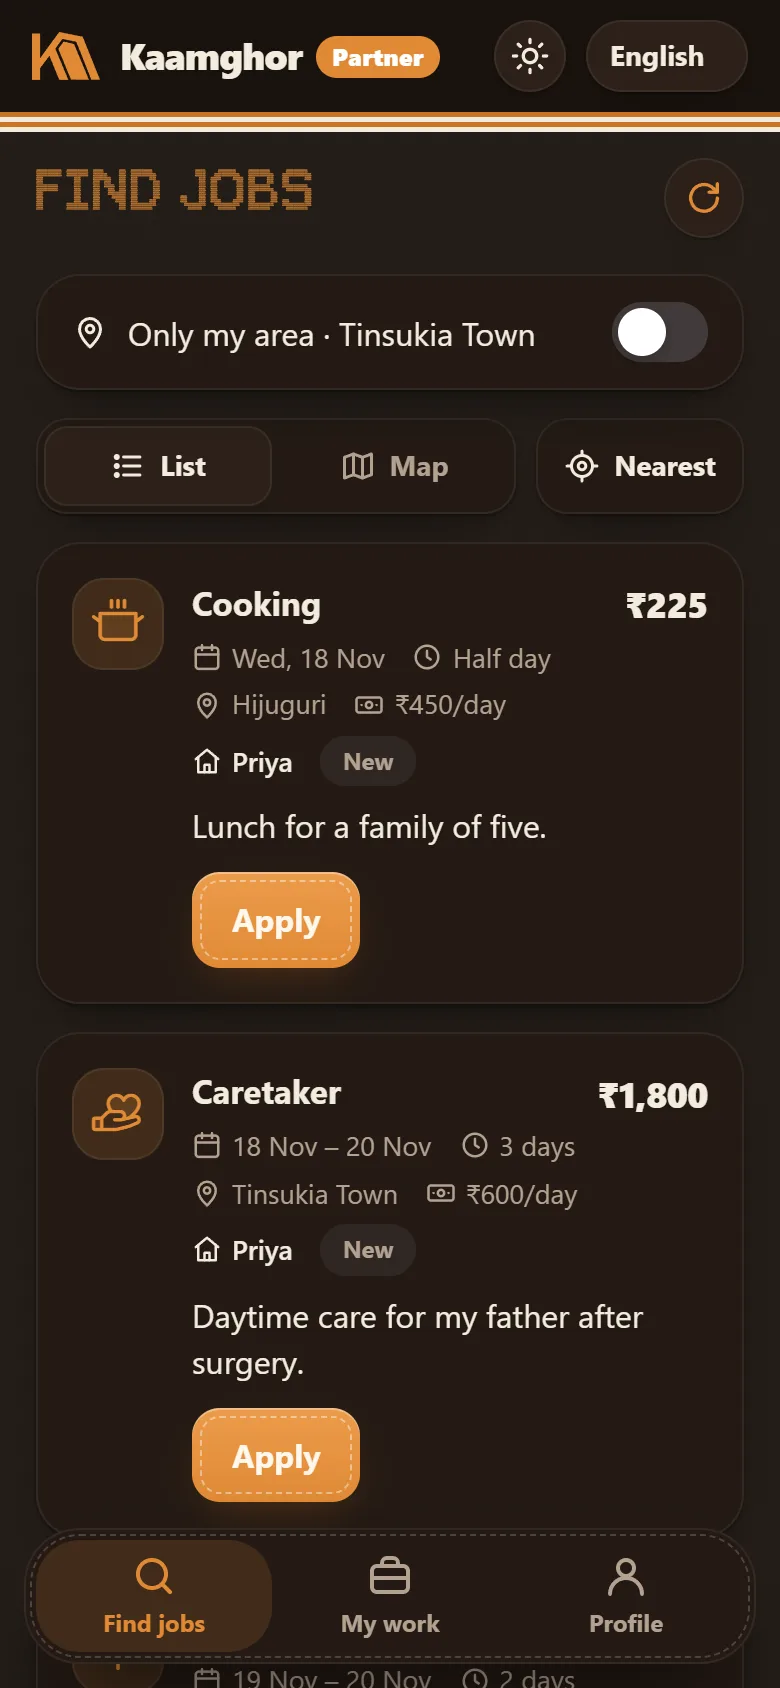
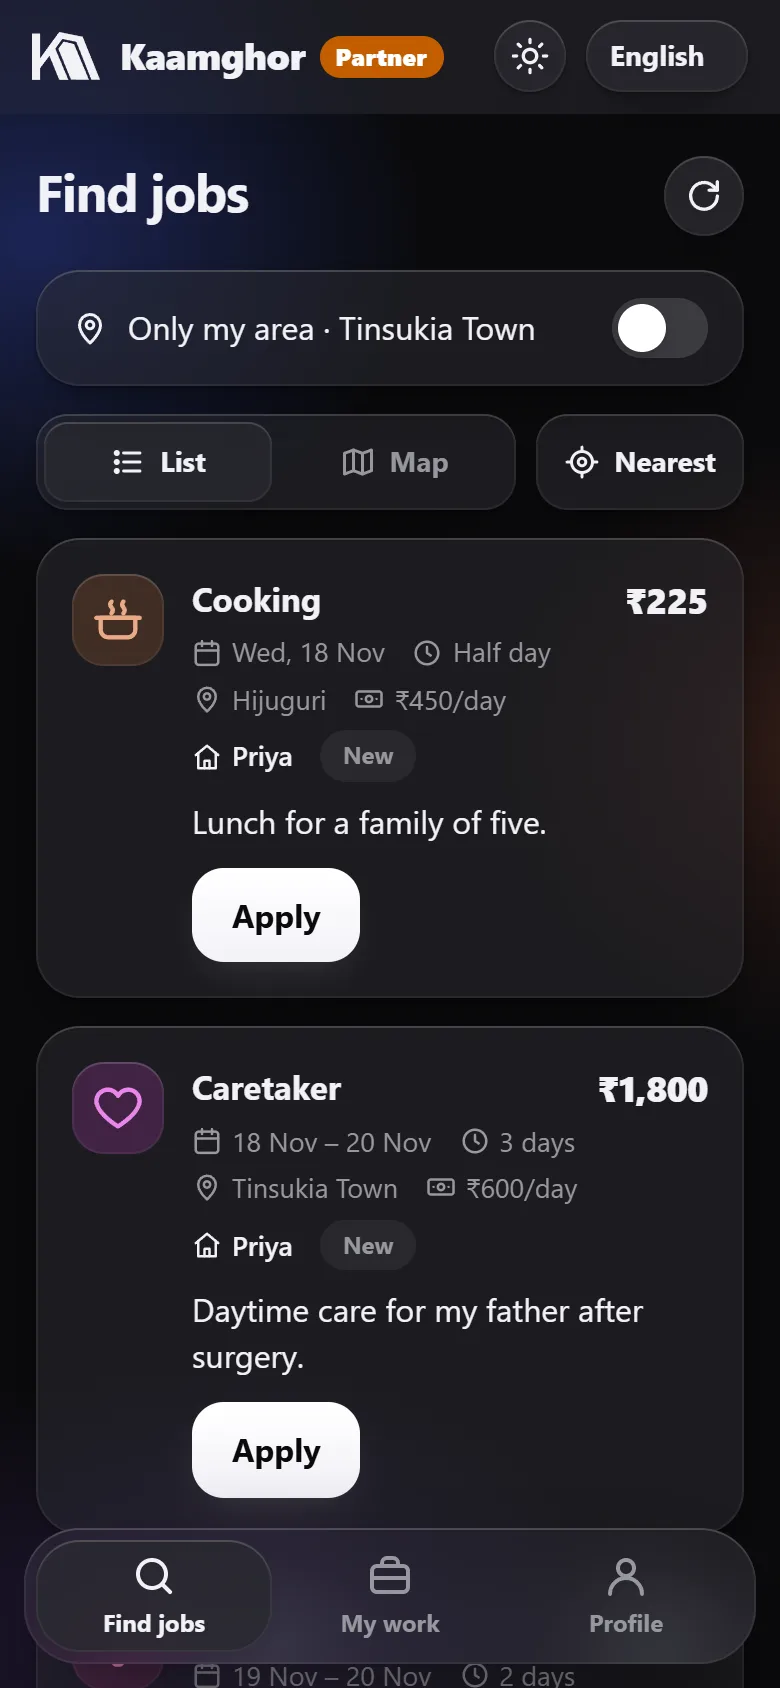
Revert "App: the gamosa look inside both apps"
This reverts commit 1327c54c8a9717330d1f883fd85fa1c9e2ec95e6.

diff --git a/web/index.html b/web/index.html
@@ -5,15 +5,10 @@
 <meta name="viewport" content="width=device-width, initial-scale=1, viewport-fit=cover">
 <title>Kaamghor</title>
 <meta name="description" content="Trusted daily-wage help for homes in Tinsukia, Assam.">
-<meta name="theme-color" content="#f8f2e6" id="themeColor">
+<meta name="theme-color" content="#f2f2f6" id="themeColor">
 <link rel="manifest" href="manifest.webmanifest">
 <link rel="icon" href="icon.svg" type="image/svg+xml">
 <link rel="apple-touch-icon" href="icon-192.png">
-<link rel="preconnect" href="https://fonts.googleapis.com">
-<link rel="preconnect" href="https://fonts.gstatic.com" crossorigin>
-<link href="https://fonts.googleapis.com/css2?family=Tiro+Bangla&display=swap" rel="stylesheet">
-<!-- Service icons: Phosphor (MIT), duotone. The service worker keeps a copy for offline use. -->
-<link rel="stylesheet" href="https://unpkg.com/@phosphor-icons/web@2.1.1/src/duotone/style.css">
 <style>
 /* ---------- Tokens. Neutral graphite UI; glass sits over soft blue, peach and lavender light. ---------- */
 :root {
@@ -490,92 +485,6 @@ html.lite dialog::backdrop { -webkit-backdrop-filter: none; backdrop-filter: non
 @media (prefers-reduced-motion: reduce) {
   *, *::before, *::after { animation-duration: .01ms !important; animation-iteration-count: 1 !important; transition-duration: .01ms !important; }
 }
-
-/* ===================== Gamosa =====================
-   The app wears the same cloth as the landing page: unbleached cotton, gamosa-red thread for
-   homes (gold for Partner), dark ink, a gamosa trim under the header and stitched edges.
-   These come last so they set the look over the rules above. */
-@font-face { font-family: Bowa; src: url(assets/fonts/bowa.woff2) format('woff2'); font-display: swap; }
-:root {
-  --bg: #f8f2e6; --solid: #fffaf1; --text: #2b1a12; --muted: #6f5a4a; --line: rgba(43,26,18,.12); --line-2: rgba(43,26,18,.22);
-  --brand: #b3172e; --brand-2: #c42038; --brand-ink: #fff8ee; --brand-soft: rgba(179,23,46,.09); --brand-glow: rgba(143,16,36,.35);
-  --amber: #a65a16; --accent: #a65a16; --accent-soft: rgba(200,115,38,.14);
-  --glass: rgba(255,250,241,.86); --glass-strong: #fffaf1; --glass-input: #fffdf8;
-  --hi: inset 0 0 0 1px rgba(43,26,18,.08);
-  --shadow: 0 1px 2px rgba(43,26,18,.06), 0 10px 24px -14px rgba(43,26,18,.32);
-  --shadow-lg: 0 20px 44px -16px rgba(43,26,18,.42);
-  --cloth-opacity: 1;
-  --woven: Bowa, "Tiro Bangla", system-ui, sans-serif;
-}
-:root[data-theme="dark"] {
-  --bg: #17110d; --solid: #241a14; --text: #f3ecdf; --muted: #b4a291; --line: rgba(243,236,223,.1); --line-2: rgba(243,236,223,.2);
-  --brand: #d8394f; --brand-2: #e2526a; --brand-ink: #fff8ee; --brand-soft: rgba(224,71,93,.15); --brand-glow: rgba(0,0,0,.55);
-  --amber: #e08a35; --accent: #e08a35; --accent-soft: rgba(224,138,53,.16);
-  --glass: rgba(36,26,20,.9); --glass-strong: #2c2019; --glass-input: rgba(243,236,223,.05);
-  --hi: inset 0 0 0 1px rgba(243,236,223,.07);
-  --shadow: 0 1px 2px rgba(0,0,0,.4), 0 12px 28px -14px rgba(0,0,0,.7);
-  --shadow-lg: 0 24px 50px -16px rgba(0,0,0,.8);
-  --cloth-opacity: .06;
-}
-@media (prefers-color-scheme: dark) {
-  :root:not([data-theme="light"]) {
-    --bg: #17110d; --solid: #241a14; --text: #f3ecdf; --muted: #b4a291; --line: rgba(243,236,223,.1); --line-2: rgba(243,236,223,.2);
-    --brand: #d8394f; --brand-2: #e2526a; --brand-ink: #fff8ee; --brand-soft: rgba(224,71,93,.15); --brand-glow: rgba(0,0,0,.55);
-    --amber: #e08a35; --accent: #e08a35; --accent-soft: rgba(224,138,53,.16);
-    --glass: rgba(36,26,20,.9); --glass-strong: #2c2019; --glass-input: rgba(243,236,223,.05);
-    --hi: inset 0 0 0 1px rgba(243,236,223,.07);
-    --shadow: 0 1px 2px rgba(0,0,0,.4), 0 12px 28px -14px rgba(0,0,0,.7);
-    --shadow-lg: 0 24px 50px -16px rgba(0,0,0,.8);
-    --cloth-opacity: .06;
-  }
-}
-/* Kaamghor Partner is woven in gold thread. */
-:root.partner { --brand: #a65a16; --brand-2: #c8762a; --brand-soft: rgba(200,115,38,.12); --brand-glow: rgba(166,90,22,.4); }
-:root.partner[data-theme="dark"] { --brand: #e08a35; --brand-2: #ec9b4b; --brand-soft: rgba(224,138,53,.15); }
-@media (prefers-color-scheme: dark) { :root.partner:not([data-theme="light"]) { --brand: #e08a35; --brand-2: #ec9b4b; --brand-soft: rgba(224,138,53,.15); } }
-
-/* The cloth behind everything (very faint in dark mode). */
-body::before { inset: 0; background: url(assets/gamosa-cloth.svg) repeat 0 0 / 104px; opacity: var(--cloth-opacity); }
-
-/* Header: the logo in thread colour, with a gamosa trim along its foot. */
-.top { background: color-mix(in srgb, var(--bg) 92%, transparent); border-bottom: 0; }
-.top::after { content: ""; position: absolute; left: 0; right: 0; bottom: -10px; height: 10px; pointer-events: none;
-  background: url(assets/gamosa-trim.svg) repeat-x top / auto 22px; }
-.top.scrolled { box-shadow: none; }
-.brand .logo { color: var(--brand); }
-#brandName { font-weight: 900; letter-spacing: -.02em; }
-.ptag { background: var(--amber); }
-
-/* Page titles are woven in the thread colour. */
-main h1 { font-family: var(--woven); font-weight: 400; letter-spacing: .01em; color: var(--brand); }
-.title-row h1, main > h1 { font-size: 29px; }
-
-/* Buttons in thread colour with a stitched edge; quieter buttons get a quieter stitch. */
-.btn { border-radius: 14px; }
-.btn::before { content: ""; position: absolute; inset: 4px; border-radius: 10px; border: 1.5px dashed rgba(255,255,255,.42); pointer-events: none; }
-.btn.ghost::before, .btn.soft::before, .btn.danger::before, .btn.google::before { border-color: var(--line); }
-.btn.sm { border-radius: 12px; }
-.btn.sm::before { inset: 3px; border-radius: 9px; }
-.btn.ghost { color: var(--brand); }
-
-/* Cards: plain paper on the cloth. */
-.card { background: var(--solid); }
-.choice > span { background: var(--solid); }
-
-/* The bottom bar: paper with a stitched edge; the current tab is a patch of thread colour. */
-#tabs { background: var(--solid); }
-#tabs::after { content: ""; position: absolute; inset: 3px; border-radius: 25px; border: 1.5px dashed var(--line-2); pointer-events: none; }
-#tabs::before { background: var(--brand-soft); box-shadow: none; }
-
-/* Service icons: Phosphor duotone, in thread colour (stand-ins until our own are drawn). */
-.sk { color: var(--brand); }
-.sk i { display: block; line-height: 1; }
-.job-ic.sk { background: var(--brand-soft); }
-
-/* Login: the logo tile, the name woven, and a gamosa border at the foot. */
-.hero-logo { display: block; width: 96px; height: 96px; margin: 0 auto; border-radius: 24px; box-shadow: var(--shadow); }
-.hero h1 { font-size: 40px; margin-top: 16px; }
-.login-band { height: 92px; margin: 34px -18px 0; background: url(assets/gamosa-border.svg) repeat-x center / auto 100%; }
 </style>
 <script>
 // Decide before first paint: saved light/dark choice, and whether this phone gets blur.
@@ -977,9 +886,10 @@ const T = {
 // Must match valid_skill() and valid_area() in sql/01_schema.sql.
 const SKILLS = ['clean', 'cook', 'garden', 'paint', 'helper', 'plumb', 'elec', 'care', 'health', 'other'];
 // Line icon and tile hue for each kind of work.
-const SKILL_ICON = { clean: 'broom', cook: 'cooking-pot', garden: 'plant', paint: 'paint-roller', helper: 'package', plumb: 'wrench', elec: 'lightning', care: 'hand-heart', health: 'first-aid-kit', other: 'toolbox' };
+const SKILL_ICON = { clean: ['sparkles', 205], cook: ['pot', 22], garden: ['sprout', 135], paint: ['roller', 330], helper: ['package', 255], plumb: ['wrench', 190], elec: ['zap', 42], care: ['heart', 300], health: ['medical', 0], other: ['dots', 220] };
 function skillIcon(s, size = 24, cls = '') {
-  return `<span class="sk ${cls}"><i class="ph-duotone ph-${SKILL_ICON[s]}" style="font-size:${size}px" aria-hidden="true"></i></span>`;
+  const [name, hue] = SKILL_ICON[s];
+  return `<span class="sk ${cls}" style="--h:${hue}">${icon(name, size)}</span>`;
 }
 const AREAS = ['town', 'hijuguri', 'borguri', 'rangagora', 'bordoloi', 'chandmari'];
 const LOCALE = { en: 'en-IN', as: 'as-IN', hi: 'hi-IN' };
@@ -1183,7 +1093,7 @@ function isDark() {
 }
 function paintThemeChrome() {
   const dark = isDark();
-  $('#themeColor').content = dark ? '#17110d' : '#f8f2e6';
+  $('#themeColor').content = dark ? '#0a0a0c' : '#f2f2f6';
   const b = $('#themeBtn');
   const label = t(dark ? 'lightMode' : 'darkMode');
   b.innerHTML = icon(dark ? 'sun' : 'moon', 20);
@@ -1283,7 +1193,7 @@ function showLogin() {
   $('#tabs').hidden = true;
   const L = S.login;
   const langs = `<div class="langs">${['en', 'as', 'hi'].map((l) => `<button type="button" data-act="lang" data-lang="${l}" class="${S.lang === l ? 'on' : ''}">${{ en: 'English', as: 'অসমীয়া', hi: 'हिन्दी' }[l]}</button>`).join('')}</div>`;
-  const hero = `<div class="hero"><img class="hero-logo" src="icon.svg" alt=""><h1>${te('appName')}${PARTNER ? ` <span class="ptag">${te('partner')}</span>` : ''}</h1><div class="muted">${te(PARTNER ? 'taglinePartner' : 'tagline')}</div></div>`;
+  const hero = `<div class="hero"><div class="hero-mark"><svg class="logo" aria-hidden="true"><use href="#kg-mark"/></svg></div><h1>${te('appName')}${PARTNER ? ` <span class="ptag">${te('partner')}</span>` : ''}</h1><div class="muted">${te(PARTNER ? 'taglinePartner' : 'tagline')}</div></div>`;
   if (L.step === 'intro') {
     const slides = INTRO[ENTRY];
     main.innerHTML = `${langs}
@@ -1313,7 +1223,6 @@ function showLogin() {
         </form>
       </div>
       <div id="installSlot"></div>
-      <div class="login-band" aria-hidden="true"></div>
       ${crossLink()}`;
     updateInstallSlot();
   } else if (L.step === 'phone') {

diff --git a/web/sw.js b/web/sw.js
@@ -2,7 +2,7 @@
 // App files: network first (always the latest when online), saved copy if offline or the network
 // takes longer than 4 s. The pinned supabase-js file never changes, so it is served from the cache.
 // Change CACHE only to throw away old copies (for example after renaming files).
-const CACHE = 'kaamghor-v17';
+const CACHE = 'kaamghor-v16';
 const SUPABASE_JS = 'https://cdn.jsdelivr.net/npm/@supabase/supabase-js@2.45.4/dist/umd/supabase.min.js';
 const SHELL = ['./', './index.html', './api.js', './manifest.webmanifest', './icon.svg', './logo.svg', './icon-192.png', './icon-512.png', './terms.html', SUPABASE_JS];
 const SLOW_MS = 4000;
@@ -23,11 +23,9 @@ self.addEventListener('fetch', (e) => {
   if (req.method !== 'GET') return;
   const url = new URL(req.url);
 
-  // Fixed files from CDNs (supabase-js, the icon font, the Assamese typeface): saved once, served from the copy.
-  if (req.url === SUPABASE_JS || /^https:\/\/(unpkg\.com\/@phosphor-icons\/web@2\.1\.1\/|fonts\.googleapis\.com\/|fonts\.gstatic\.com\/)/.test(req.url)) {
+  if (req.url === SUPABASE_JS) {
     e.respondWith(caches.match(req).then((hit) => hit || fetch(req).then((res) => {
-      // Stylesheets from other sites come back opaque; they are still fine to keep.
-      if (res.ok || res.type === 'opaque') caches.open(CACHE).then((c) => c.put(req, res.clone()));
+      if (res.ok) caches.open(CACHE).then((c) => c.put(req, res.clone()));
       return res;
     })));
     return;
